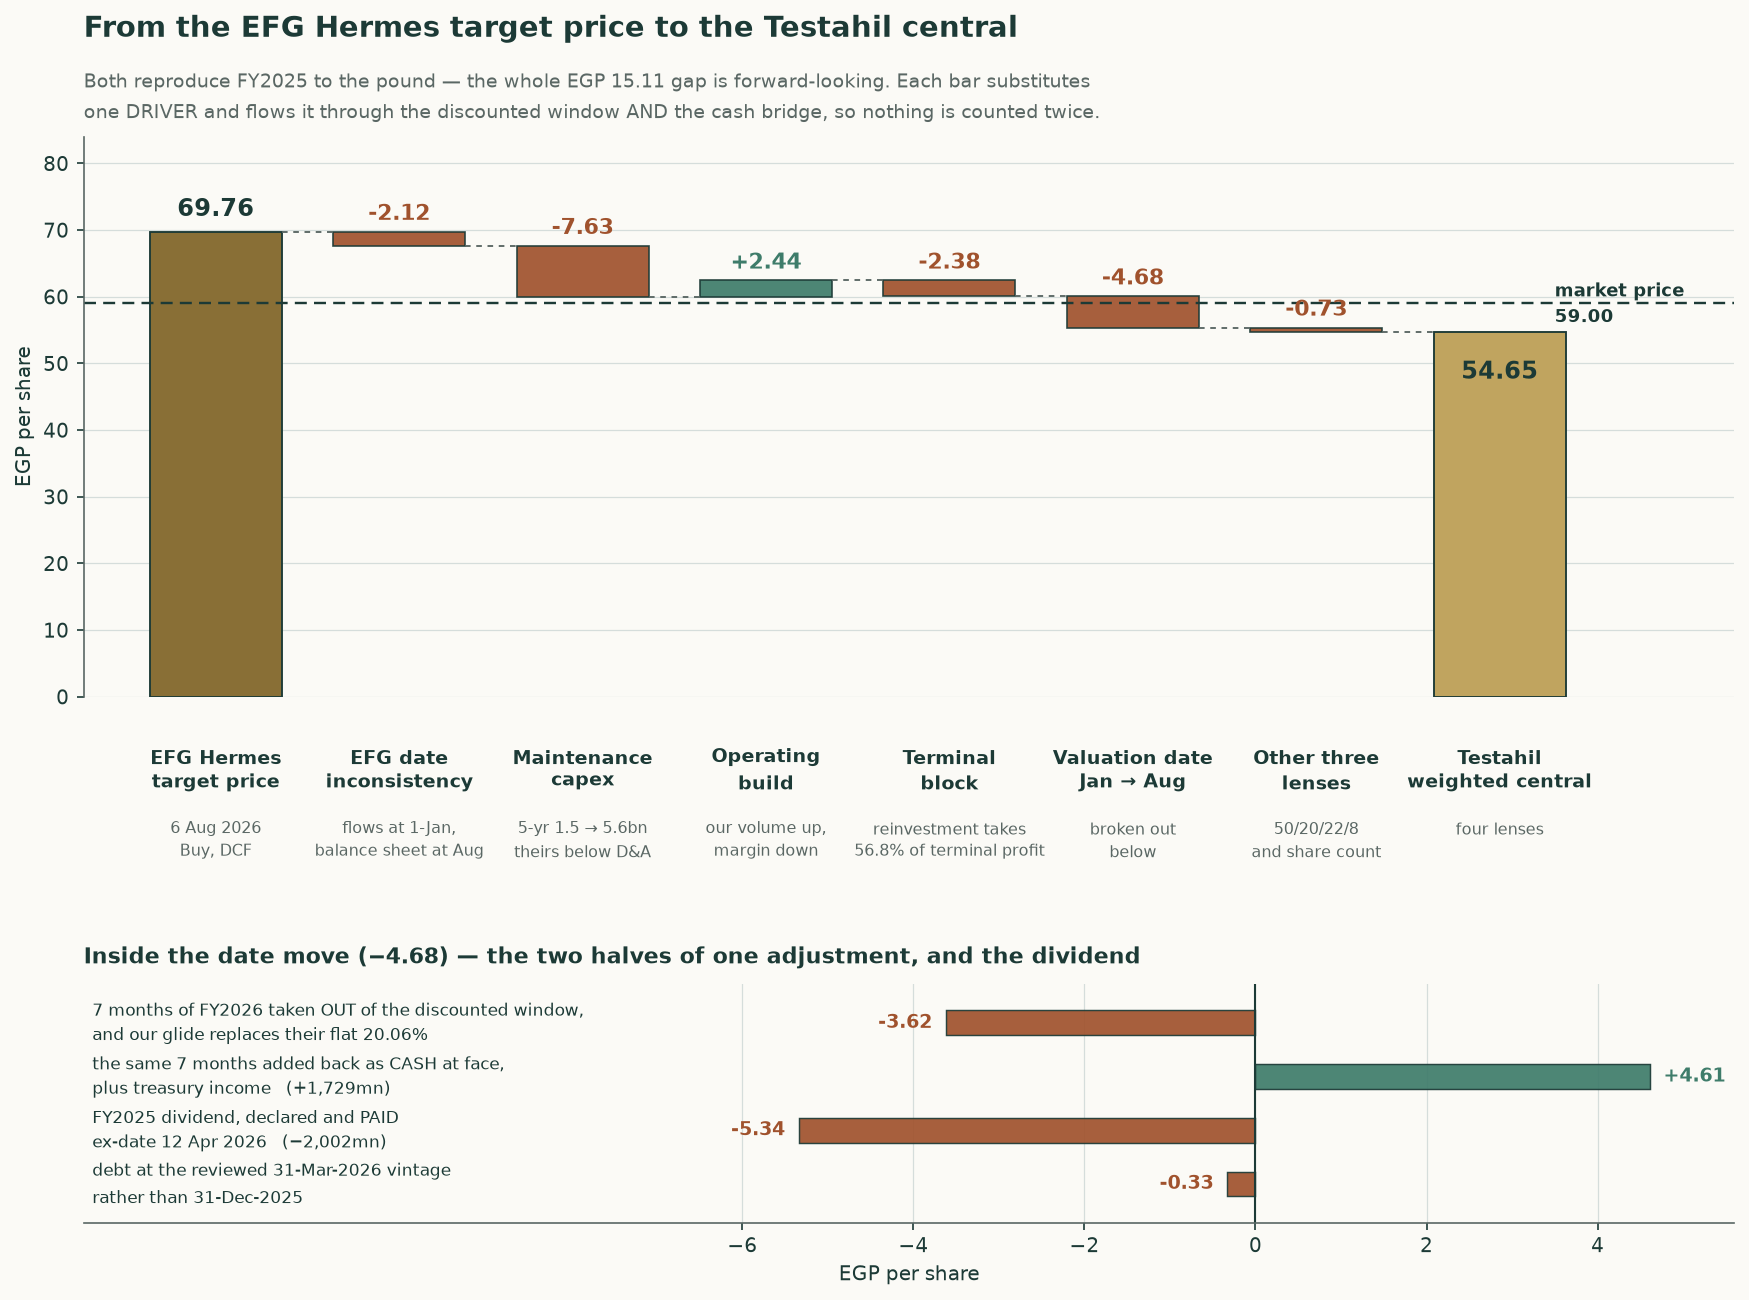
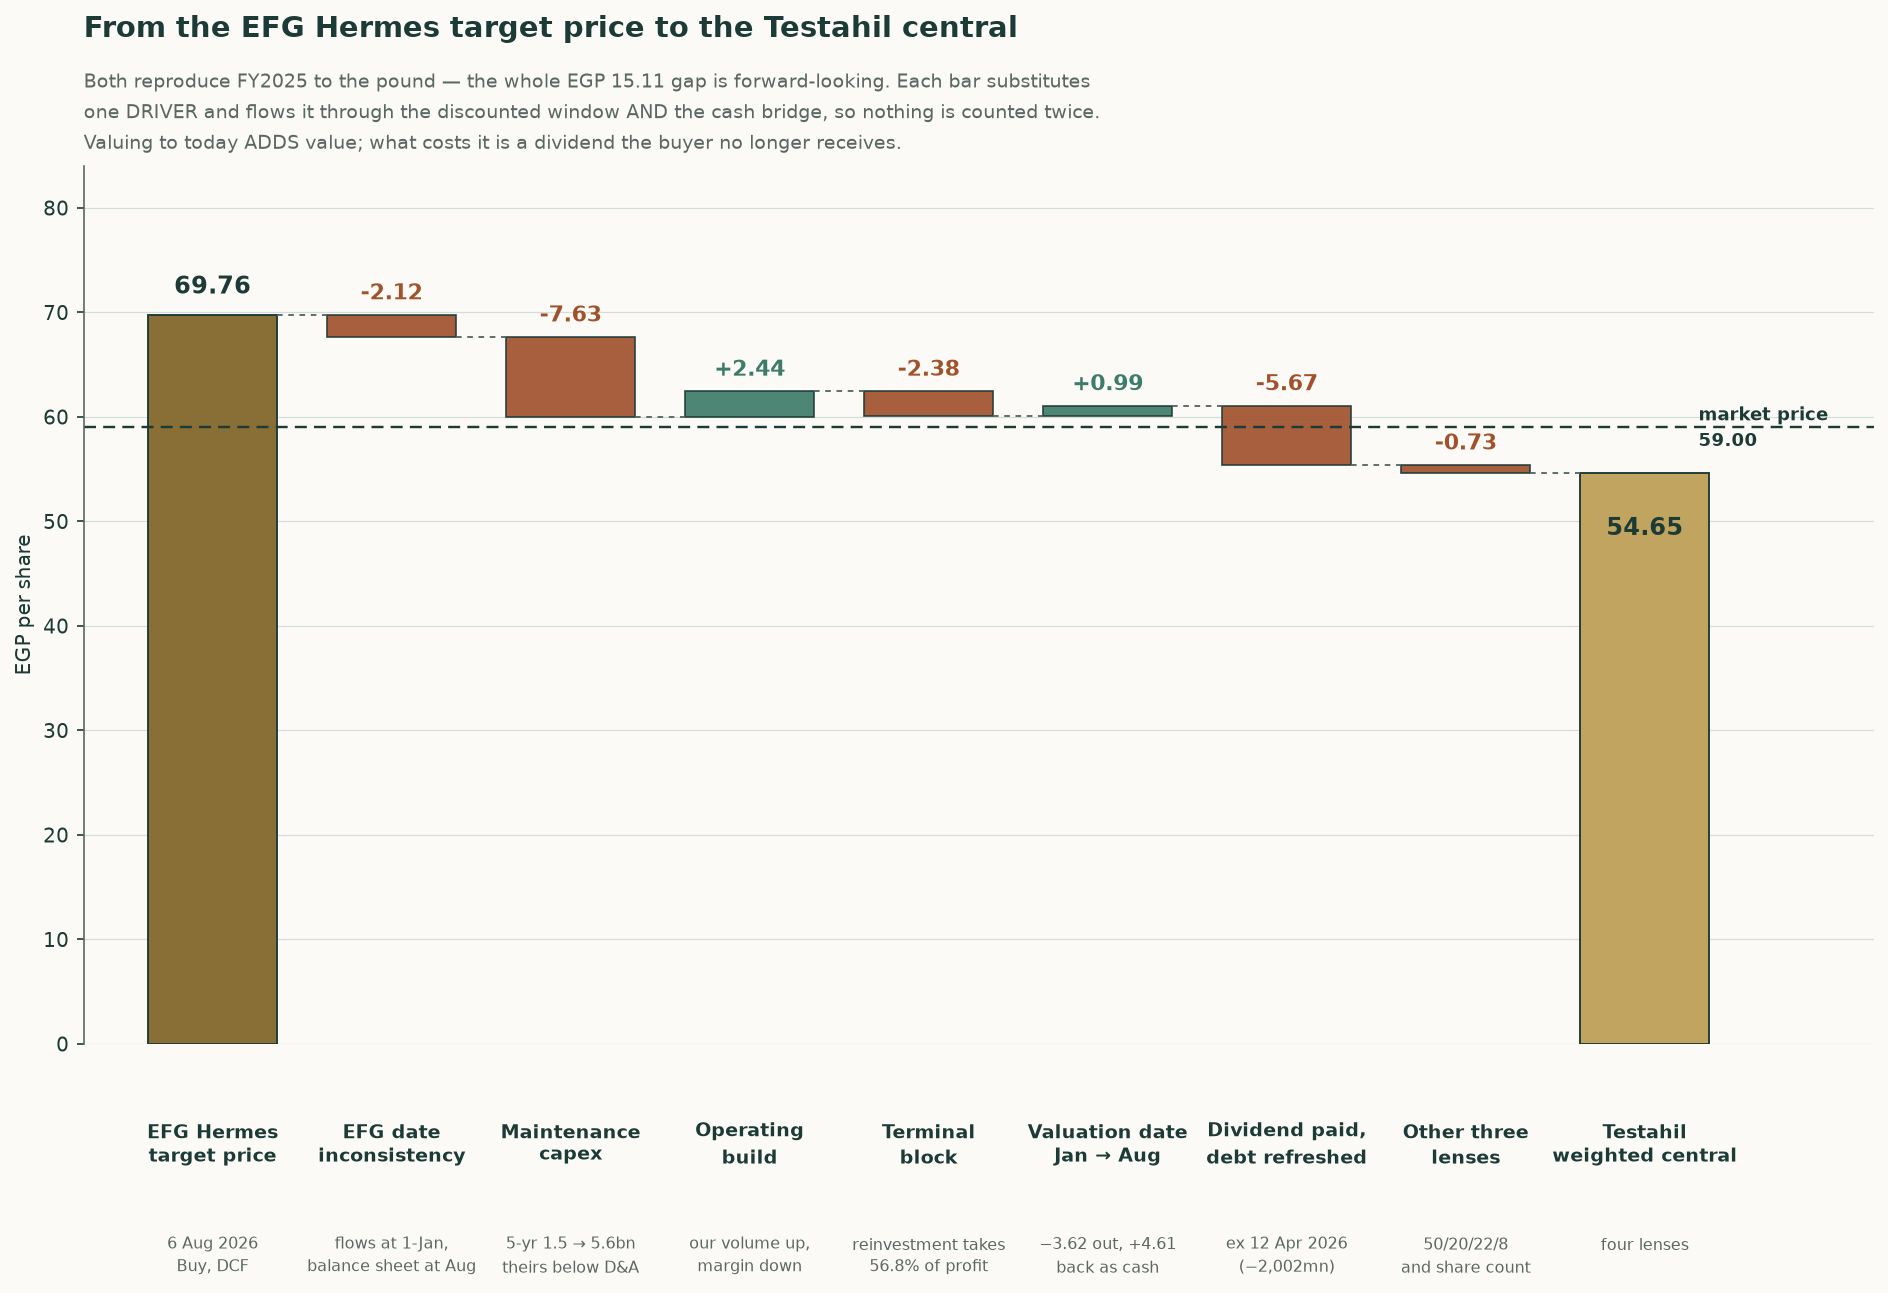
ARCC — split the mislabelled 'valuation date' bar; the date ADDS value
The bar labelled 'Valuation date Jan -> Aug  -4.68' contained four things, only two of
which are the date. It read as though moving the valuation date to today costs 4.68 a
share, which is the opposite of what the model does, and it misled a reader into thinking
the 7 months of accumulated cash still had to be ADDED to our number. It is already in:
the +1,729mn sits in the net cash line, and removing it takes the DCF lens from 55.40 to
50.79.

  TIMING  7 months out of the discounted window (+ our glide)   -3.622
  TIMING  the same 7 months back as cash at face + treasury     +4.612
          net effect of the DATE                                +0.989   <- POSITIVE
  BALANCE SHEET  FY2025 dividend, paid ex 12-Apr-2026           -5.338
  BALANCE SHEET  debt at the 31-Mar-2026 vintage                -0.334
          net effect of the BALANCE SHEET                       -5.673

Now two bars: 'Valuation date Jan -> Aug +0.99' and 'Dividend paid, debt refreshed -5.67'.
The chart says what is true on its face — valuing to today ADDS value, and what costs it
is a dividend the buyer no longer receives. The inset panel is retired; the split makes it
redundant.

diff --git a/engine/arcc_study/fig_efg_bridge.py b/engine/arcc_study/fig_efg_bridge.py
@@ -31,20 +31,13 @@ STEPS = [
     ("EFG date\ninconsistency", -2.12, "flows at 1-Jan,\nbalance sheet at Aug"),
     ("Maintenance\ncapex",            -7.63, "5-yr 1.5 → 5.6bn\ntheirs below D&A"),
     ("Operating\nbuild",              +2.44, "our volume up,\nmargin down"),
-    ("Terminal\nblock",               -2.38, "reinvestment takes\n56.8% of terminal profit"),
-    ("Valuation date\nJan → Aug",     -4.68, "broken out\nbelow"),
+    ("Terminal\nblock",               -2.38, "reinvestment takes\n56.8% of profit"),
+    ("Valuation date\nJan → Aug",     +0.99, "−3.62 out, +4.61\nback as cash"),
+    ("Dividend paid,\ndebt refreshed", -5.67, "ex 12 Apr 2026\n(−2,002mn)"),
     ("Other three\nlenses",           -0.73, "50/20/22/8\nand share count"),
 ]
-INSIDE_5 = [
-    ("7 months of FY2026 taken OUT of the discounted window,\nand our glide replaces their flat 20.06%", -3.62),
-    ("the same 7 months added back as CASH at face,\nplus treasury income   (+1,729mn)", +4.61),
-    ("FY2025 dividend, declared and PAID\nex-date 12 Apr 2026   (−2,002mn)", -5.34),
-    ("debt at the reviewed 31-Mar-2026 vintage\nrather than 31-Dec-2025", -0.33),
-]
 
-fig = plt.figure(figsize=(14.2, 9.4), dpi=150)
-gs = fig.add_gridspec(2, 1, height_ratios=[2.35, 1.0], hspace=0.72)
-ax, bx = fig.add_subplot(gs[0]), fig.add_subplot(gs[1])
+fig, ax = plt.subplots(figsize=(15.4, 7.6), dpi=150)
 TR = ax.get_xaxis_transform()
 
 
@@ -82,26 +75,11 @@ ax.tick_params(axis='x', length=0)
 for sp in ('top', 'right', 'bottom'):
     ax.spines[sp].set_visible(False)
 ax.set_title('From the EFG Hermes target price to the Testahil central',
-             fontsize=14, fontweight='bold', loc='left', pad=48)
-ax.text(0.0, 1.015, 'Both reproduce FY2025 to the pound — the whole EGP 15.11 gap is forward-looking. Each bar substitutes\n'
-        'one DRIVER and flows it through the discounted window AND the cash bridge, so nothing is counted twice.',
+             fontsize=14, fontweight='bold', loc='left', pad=62)
+ax.text(0.0, 1.008, 'Both reproduce FY2025 to the pound — the whole EGP 15.11 gap is forward-looking. Each bar substitutes\n'
+        'one DRIVER and flows it through the discounted window AND the cash bridge, so nothing is counted twice.\n'
+        'Valuing to today ADDS value; what costs it is a dividend the buyer no longer receives.',
         transform=ax.transAxes, fontsize=9.2, color=GREY, ha='left', va='bottom', linespacing=1.6)
 
-# ---- inset: what is inside the date move -----------------------------------
-ys = range(len(INSIDE_5))[::-1]
-for y, (lab, v) in zip(ys, INSIDE_5):
-    bx.barh(y, v, height=0.46, color=(TEAL if v > 0 else RUST), edgecolor=INK, lw=0.7, alpha=.92)
-    bx.text(v + (0.16 if v > 0 else -0.16), y, f'{v:+.2f}', va='center',
-            ha='left' if v > 0 else 'right', fontsize=9.2, fontweight='bold',
-            color=(TEAL if v > 0 else RUST))
-    bx.text(-13.6, y, lab, va='center', ha='left', fontsize=8.4, color=INK, linespacing=1.45)
-bx.axvline(0, color=INK, lw=1.0)
-bx.set_xlim(-13.7, 5.6); bx.set_ylim(-0.72, len(INSIDE_5) - 0.28)
-bx.set_yticks([]); bx.set_xlabel('EGP per share'); bx.set_xticks([-6,-4,-2,0,2,4])
-bx.grid(axis='y', visible=False)
-for sp in ('top', 'right', 'left'):
-    bx.spines[sp].set_visible(False)
-bx.set_title('Inside the date move (−4.68) — the two halves of one adjustment, and the dividend',
-             fontsize=10.5, fontweight='bold', loc='left', pad=10)
 out = os.path.join(HERE, 'fig_efg_bridge.png')
 fig.savefig(out, bbox_inches='tight'); print('wrote', out)
